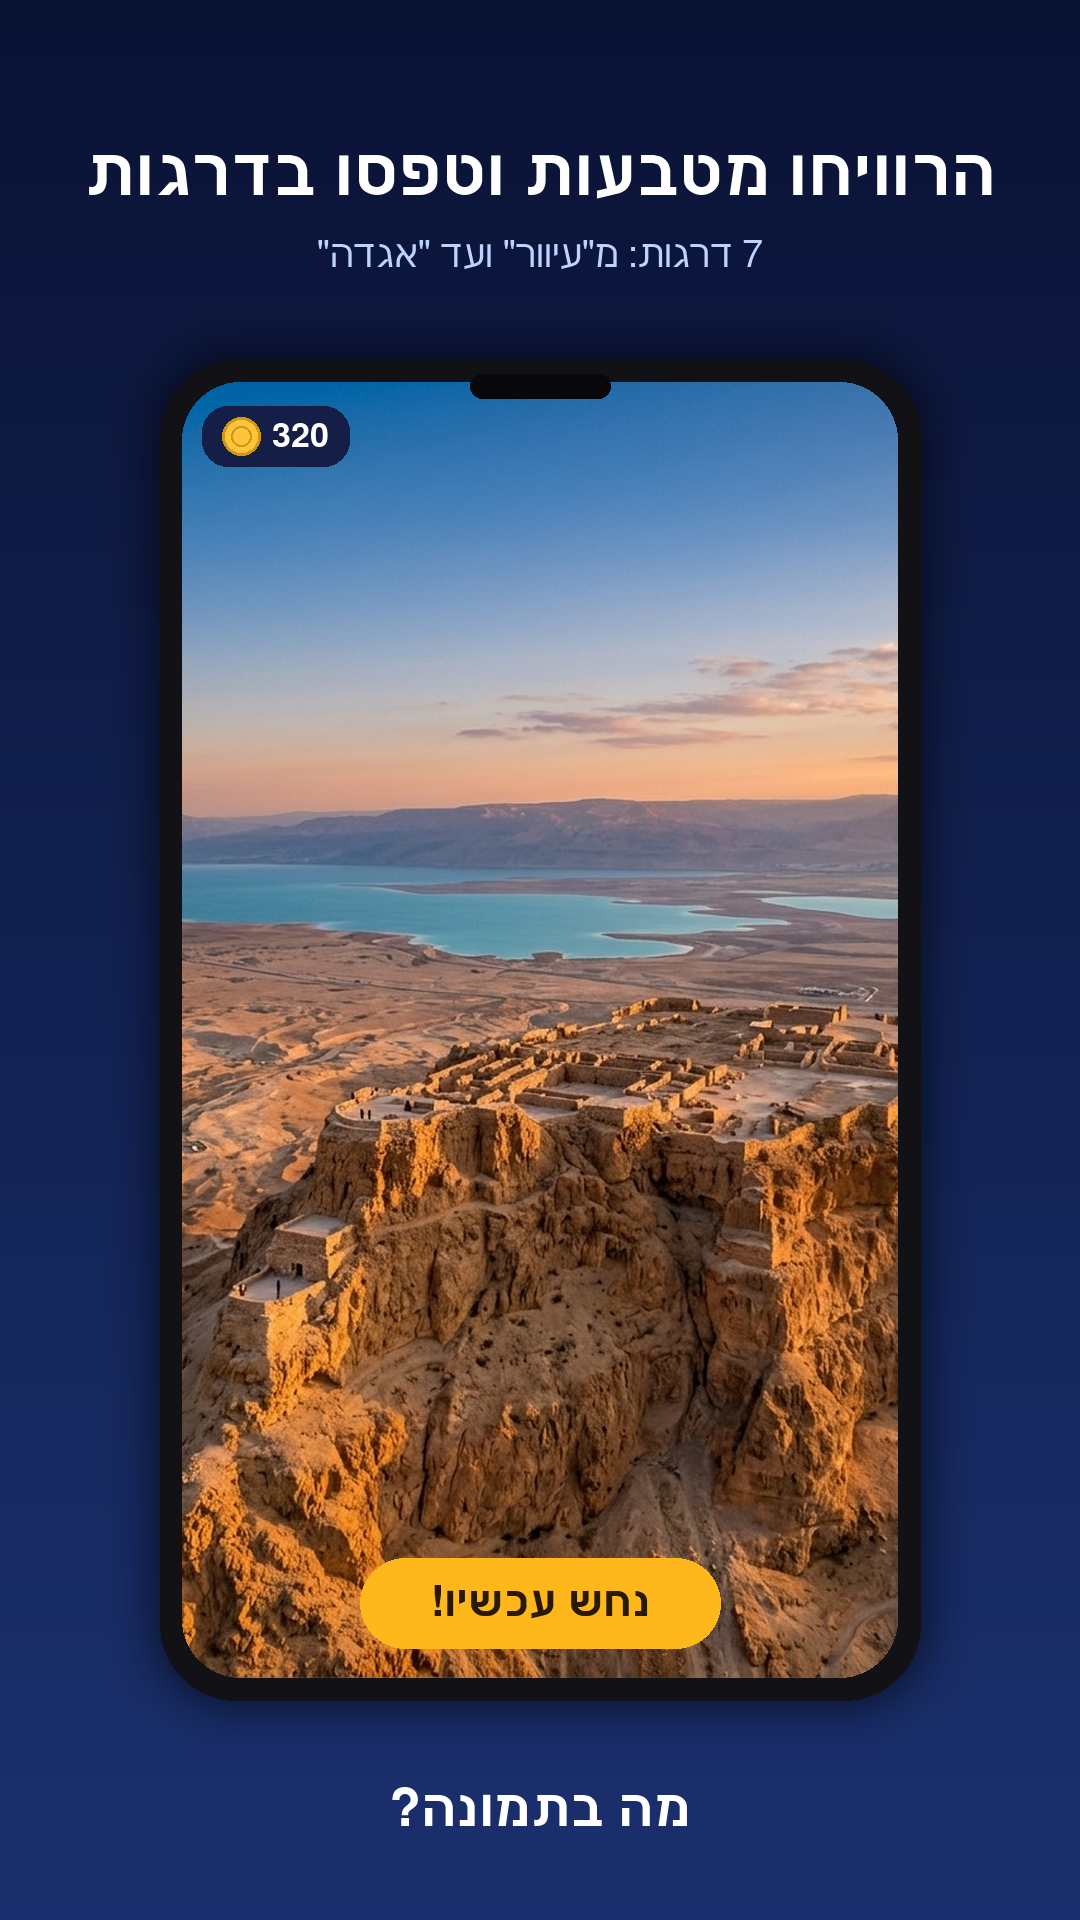
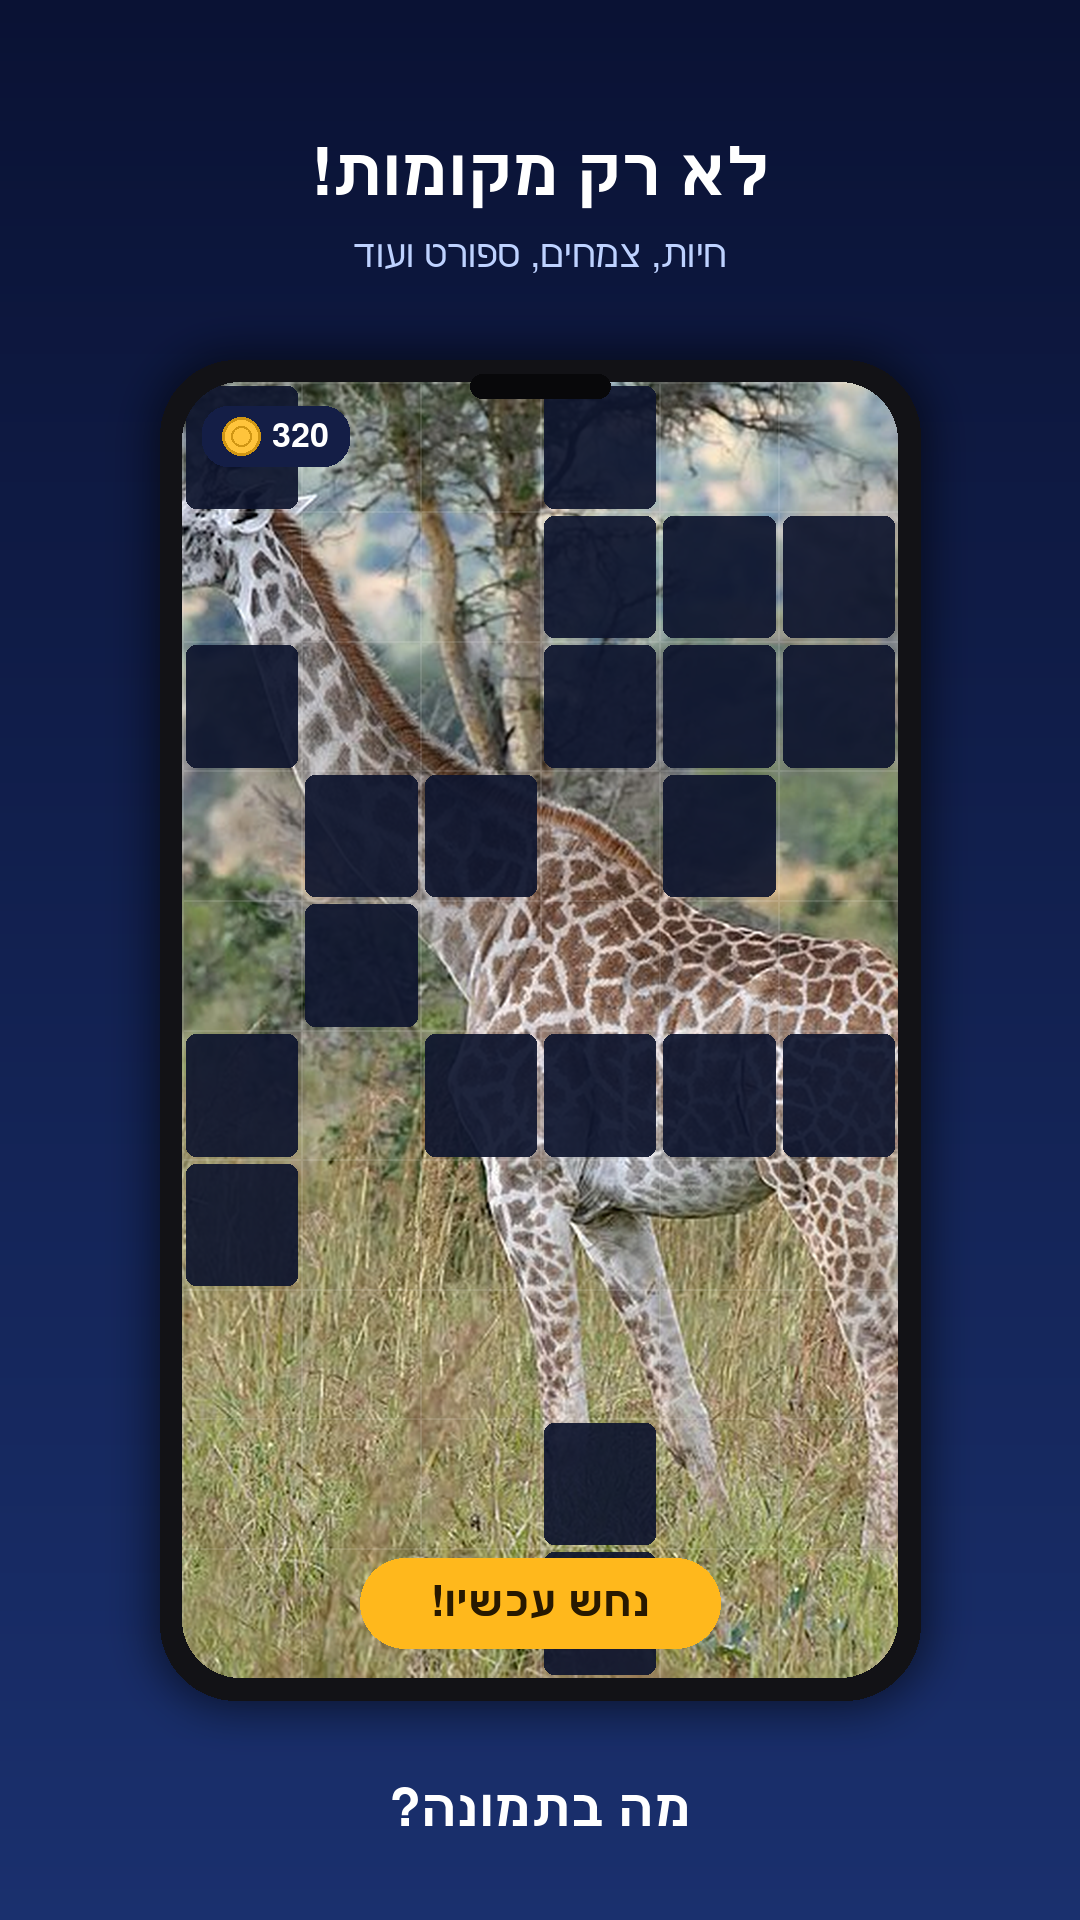
assets(play): remove bot mention from screenshot, add חי-צומח-דומם shot
- Screenshot #2 caption: "מול שחקנים אמיתיים ובוטים" → "מול חברים בזמן אמת"
  (do not reveal bot play).
- New screenshot showcasing the חי-צומח-דומם game (giraffe) — the listing
  now advertises three games, so the shots cover more than places.
- Generator privacy URL updated to the published apps-share-pages page.

Claude-Session: https://claude.ai/code/session_01WUavoHLQNW8RRCq96dcDNK

diff --git a/build_play_assets.py b/build_play_assets.py
@@ -12,7 +12,7 @@ IMG_DIR = os.path.join(ROOT, "assets", "game_places", "images")
 
 FONT_BOLD = "/usr/share/fonts/truetype/freefont/FreeSansBold.ttf"
 FONT_REG = "/usr/share/fonts/truetype/freefont/FreeSans.ttf"
-PRIVACY_URL = "https://rotem-ya.github.io/WhoIsThere/privacy.html"
+PRIVACY_URL = "https://rotem-ya.github.io/apps-share-pages/whoisthere/privacy/"
 
 # ───────────────────────── helpers ─────────────────────────
 def F(size, bold=True):
@@ -139,7 +139,8 @@ print("feature graphic:", Image.open(fg_path).size)
 SW, SH = 1080, 1920
 specs = [
     ("western_wall.jpg", "נחשו את המקום!", "המשבצות נחשפות אחת-אחת", 0.45),
-    ("dead_sea.jpg", "מי שמזהה ראשון — מנצח!", "מול שחקנים אמיתיים ובוטים", 0.20),
+    ("dead_sea.jpg", "מי שמזהה ראשון — מנצח!", "מול חברים בזמן אמת", 0.20),
+    ("animals_giraffe.jpg", "לא רק מקומות!", "חיות, צמחים, ספורט ועוד", 0.35),
     ("masada.jpg", "הרוויחו מטבעות וטפסו בדרגות", "7 דרגות: מ\"עיוור\" ועד \"אגדה\"", 0.0),
     ("ramon_crater.jpg", "עשרות אתרים מרהיבים", "מכל רחבי ישראל", 0.0),
 ]
@@ -274,7 +275,8 @@ google-play-assets/
 │       ├── phone_screenshot_1.png   (1080×1920)
 │       ├── phone_screenshot_2.png   (1080×1920)
 │       ├── phone_screenshot_3.png   (1080×1920)
-│       └── phone_screenshot_4.png   (1080×1920)
+│       ├── phone_screenshot_4.png   (1080×1920)
+│       └── phone_screenshot_5.png   (1080×1920)
 └── README.txt                   ← הקובץ הזה
 
 איפה להדביק כל פריט ב-Play Console